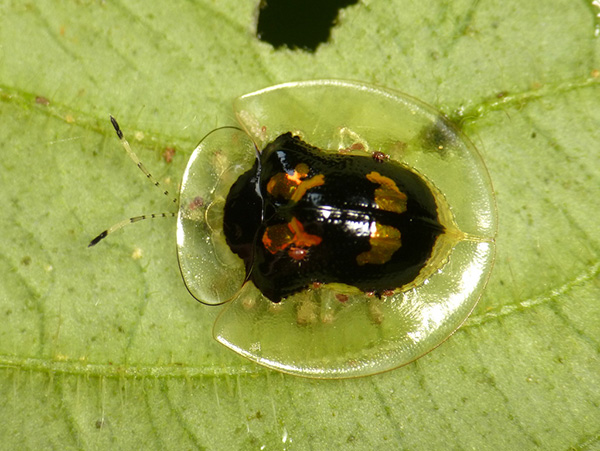
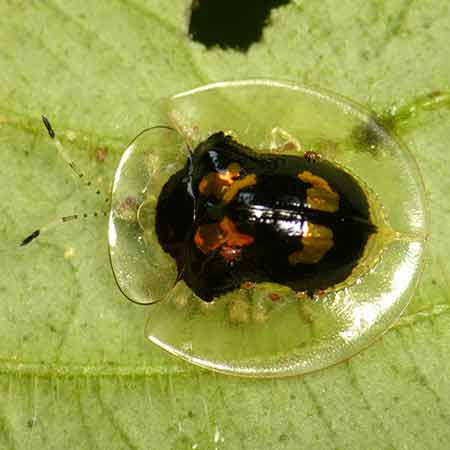
Resized photos to match
Trying to fix my nav list/bar

diff --git a/css/main.css b/css/main.css
@@ -32,6 +32,7 @@ h1 {
 	color: #512200;
 }
 
+
 .masthead {
 	background-image: url("../images/header-background.png");
 	background-size: 300px auto;
@@ -41,9 +42,14 @@ h1 {
 	text-align: center;
 }
 
+nav li{
+	float: left;
+	width: 25%;
+}
 nav a {
 	display: block;
 	color: #512200;
+	font-size: 3rem;
 	text-decoration: none;
 	text-align: left;
 	padding: 1em 1em 1em 1em;
@@ -80,14 +86,18 @@ nav a {
 	float: right;
 }
 
+.dung {
+	width: 50%;
+	float: left;
+}
+
+.tortoise {
+	width: 50%;
+	float: right;
+}
+
 footer {
 	color: #512200;
 	opacity: 50%;
 	padding: 2em 0em 2em 0em;
-	background-image: url("../images/beetle-graphic-right.svg");
-	background-size: 75px auto;
-	padding: 2em;
-	background-repeat: no-repeat;
-	background-position: center 10px;
-
 }

diff --git a/index.html b/index.html
@@ -52,6 +52,7 @@
 </div>
 
 <footer>
+	<img class="beetle-l" src="images/beetle-graphic-left.svg" alt="left beetle graphic">
 </footer>
 
 </body>
